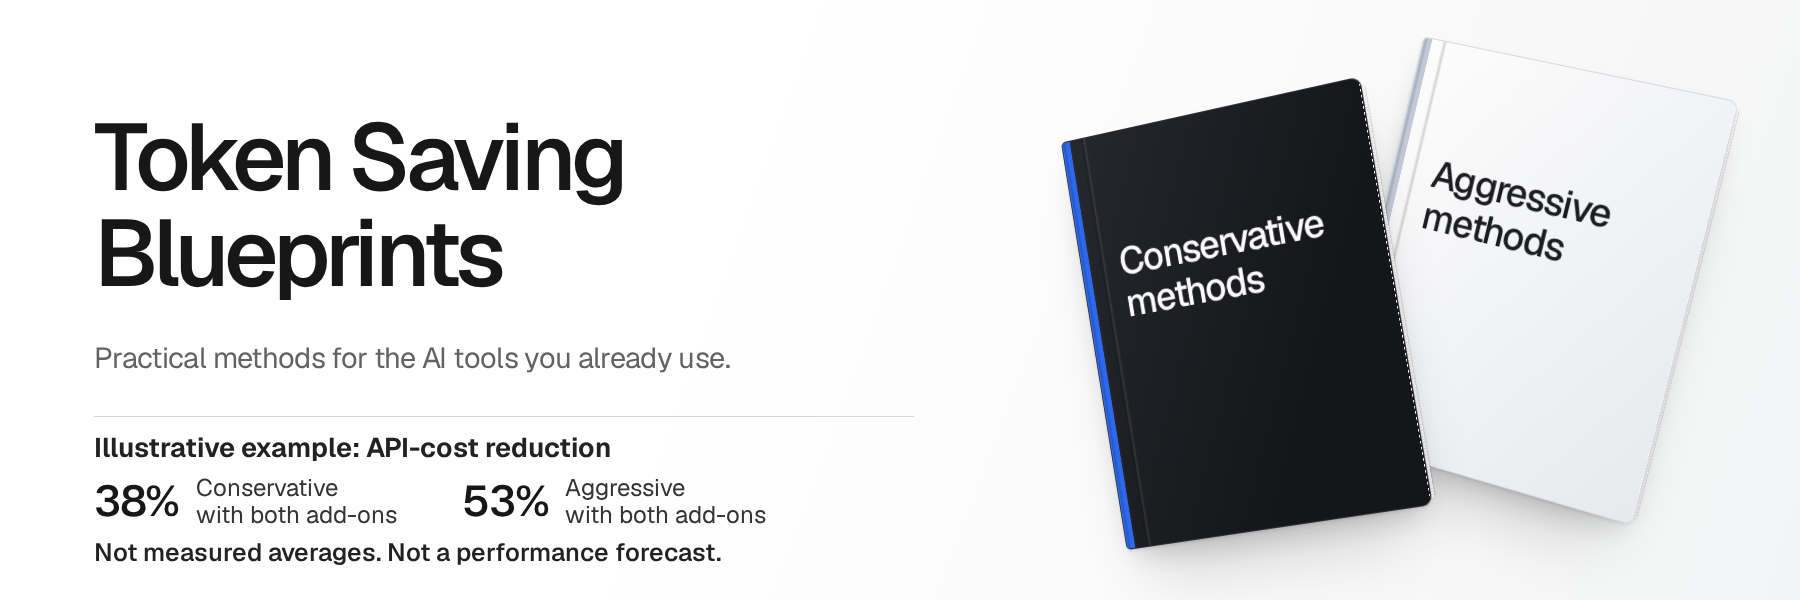
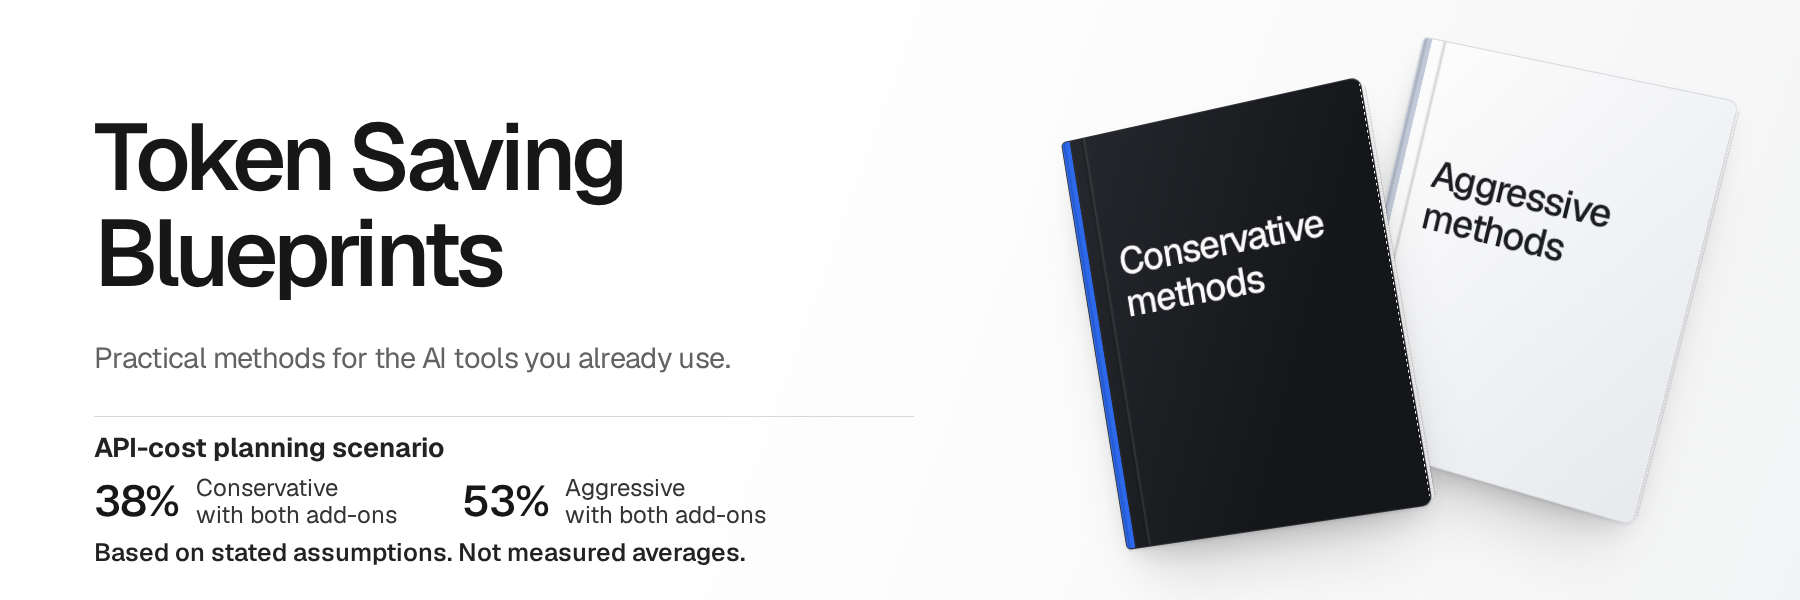
Use planning-scenario wording and one inline badge group

Changed region(s): [[0.0311, 0.9, 0.4044, 0.96], [0.0311, 0.72, 0.3422, 0.78]]

diff --git a/README.md b/README.md
@@ -1,17 +1,15 @@
 <h1 align="center">Token Saving Blueprints</h1>
 
 <p align="center">
-  <a href="#illustrative-api-cost-scenario"><img src="assets/banner.png" width="1200" alt="Token Saving Blueprints. Illustrative API-cost scenario with both add-ons: Conservative 38%, Aggressive 53%. Calculated examples, not measured averages or forecasts."></a>
+  <a href="#api-cost-planning-scenario"><img src="assets/banner.png" width="1200" alt="Token Saving Blueprints. API-cost planning scenario with both add-ons: Conservative 38%, Aggressive 53%. Based on stated assumptions, not measured averages."></a>
 </p>
 
-<p align="center"><strong>Illustration only:</strong> the banner figures are calculated API-cost examples with both add-ons, not measured averages or predictions.</p>
+<p align="center"><strong>Planning scenario:</strong> calculated from the stated assumptions with both add-ons. Actual savings vary; these are not measured averages.</p>
 
 <p align="center">
   <a href="LICENSE"><img src="https://img.shields.io/badge/license-MIT-007ec6?style=plastic" width="87" height="20" alt="License: MIT"></a>
   <a href="#choose-the-mode-by-the-work"><img src="https://img.shields.io/badge/modes-2-007ec6?style=plastic" width="71" height="20" alt="Modes: 2"></a>
   <a href="VALIDATION.md"><img src="https://img.shields.io/badge/checks-54%20local-44cc11?style=plastic" width="111" height="20" alt="Checks: 54 local tests"></a>
-</p>
-<p align="center">
   <a href="docs/delegation.md"><img src="https://img.shields.io/badge/delegation-opt--in-007ec6?style=plastic" width="122" height="20" alt="Delegation: opt-in"></a>
   <a href="docs/addons/omniroute.md"><img src="https://img.shields.io/badge/OmniRoute-optional-007ec6?style=plastic" width="140" height="20" alt="OmniRoute: optional"></a>
 </p>
@@ -44,9 +42,9 @@ For developers, executives and teams who want less wasted AI spend without repla
 
 Both modes can leave a short or information-dense task unchanged. A smaller incomplete answer is not a saving.
 
-## Illustrative API-cost scenario
+## API-cost planning scenario
 
-**Calculated examples, not observed averages, performance forecasts or token-saving guarantees.** The assumptions below were chosen to explain how the options combine. They were not derived as typical results from a benchmark of this repository.
+**Assumption-based cost modelling, not measured averages or guaranteed results.** The assumptions below were chosen to explain how the options combine. They were not derived as typical results from a benchmark of this repository.
 
 | Mode | OmniRoute compression | Cheaper-model delegation | Modelled API-cost reduction |
 |---|:---:|:---:|---:|
@@ -59,7 +57,7 @@ Both modes can leave a short or information-dense task unchanged. A smaller inco
 | Aggressive | Off | On | ~47% |
 | Aggressive | On | On | ~53% |
 
-The highlighted **38% Conservative** and **53% Aggressive** examples include both add-ons. They are not independent gains to add together. Delegation is task-aware guidance for suitable small jobs, not a fixed routing quota or a universal automatic router supplied by this repository.
+The highlighted **38% Conservative** and **53% Aggressive** scenarios include both add-ons. They are not independent gains to add together. Delegation is task-aware guidance for suitable small jobs, not a fixed routing quota or a universal automatic router supplied by this repository.
 
 <details>
 <summary><strong>Assumptions and reproducible arithmetic</strong></summary>

diff --git a/VALIDATION.md b/VALIDATION.md
@@ -40,4 +40,4 @@ Say what passed: documentation/fixture checks, source inspection or a particular
 
 ## Scenario arithmetic versus performance
 
-The [README illustration](README.md#illustrative-api-cost-scenario) is calculated from explicit chosen assumptions in [scenario data](examples/api-cost-scenario.json). Checks cover all eight mode/add-on combinations, decimal costs, whole-percentage rounding and nonbenchmark/nonforecast labels. Passing that check proves arithmetic consistency, not that the assumed savings occur. The banner and adjacent text retain the same qualification.
+The [README planning scenario](README.md#api-cost-planning-scenario) is calculated from explicit chosen assumptions in [scenario data](examples/api-cost-scenario.json). Checks cover all eight mode/add-on combinations, decimal costs, whole-percentage rounding and nonbenchmark/nonforecast labels. Passing that check proves arithmetic consistency, not that the assumed savings occur. The banner and adjacent text retain the same qualification.
